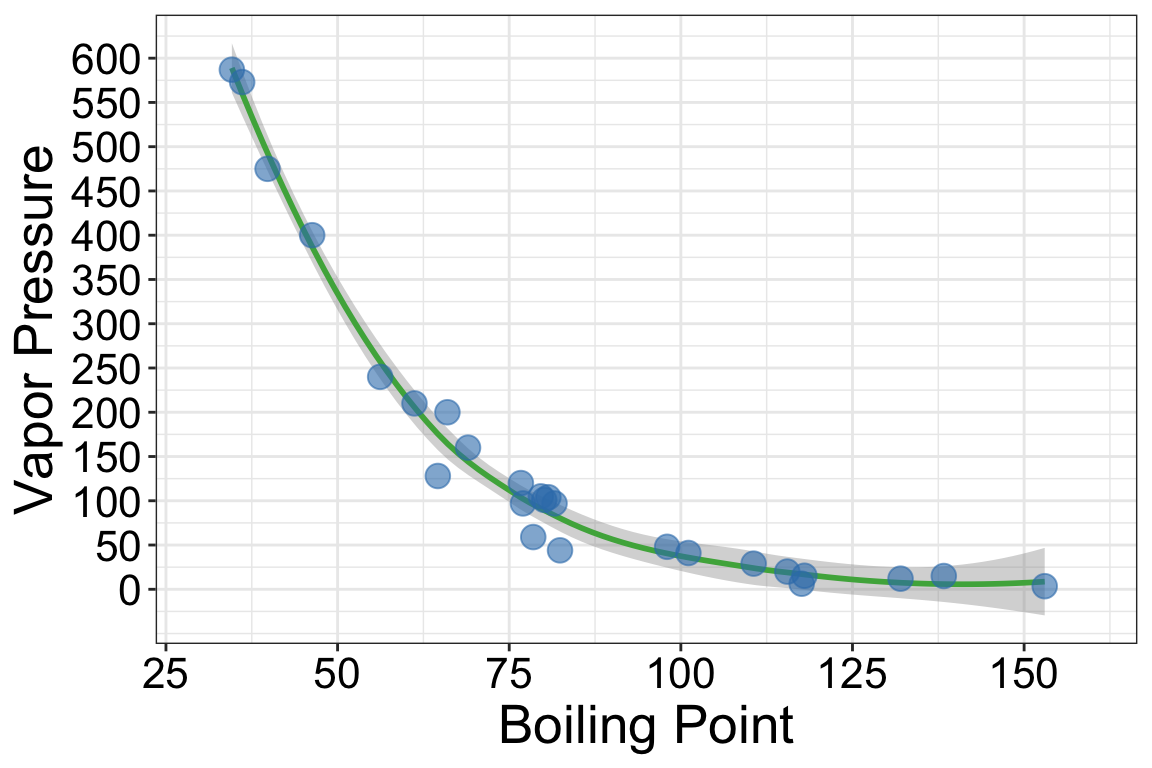
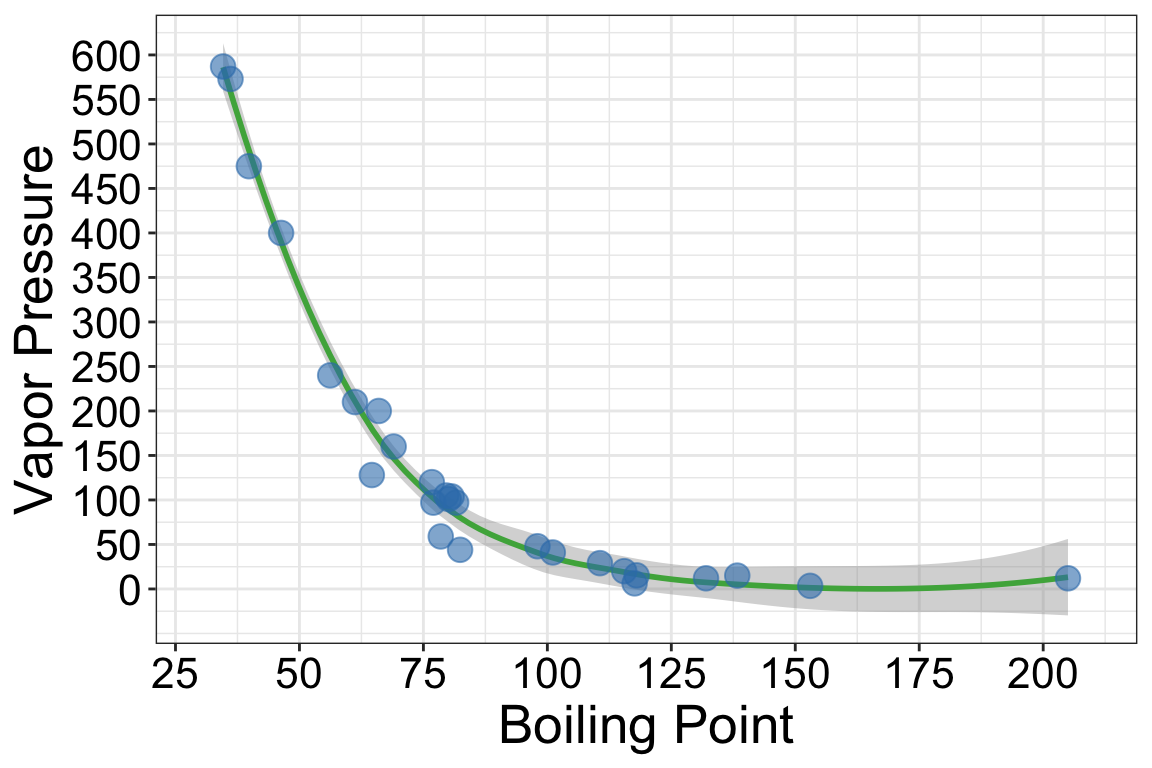
rfc updates

diff --git a/R_For_Chemists/docs/R-Basics-2.html b/R_For_Chemists/docs/R-Basics-2.html
@@ -331,7 +331,7 @@ code span.wa { color: #8f5902; font-weight: bold; font-style: italic; } /* Warni
 <p>Last, here is an example of combining <code>scale_*</code> and <code>theme*</code> with previous commands to really get a plot looking sharp.</p>
 <div class="sourceCode" id="cb34"><pre class="sourceCode r"><code class="sourceCode r"><a class="sourceLine" id="cb34-1" data-line-number="1"><span class="kw">ggplot</span>(<span class="dt">data =</span> solvents, <span class="kw">aes</span>(<span class="dt">x =</span> boiling_point, <span class="dt">y =</span> vapor_pressure)) <span class="op">+</span><span class="st"> </span></a>
 <a class="sourceLine" id="cb34-2" data-line-number="2"><span class="st">  </span><span class="kw">geom_smooth</span>(<span class="dt">color =</span> <span class="st">&quot;#4daf4a&quot;</span>) <span class="op">+</span></a>
-<a class="sourceLine" id="cb34-3" data-line-number="3"><span class="st">  </span><span class="kw">scale_x_continuous</span>(<span class="dt">name =</span> <span class="st">&quot;Boiling Point&quot;</span>, <span class="dt">breaks =</span> <span class="kw">seq</span>(<span class="dv">0</span>,<span class="dv">200</span>,<span class="dv">25</span>), <span class="dt">limits =</span> <span class="kw">c</span>(<span class="dv">30</span>,<span class="dv">160</span>)) <span class="op">+</span></a>
+<a class="sourceLine" id="cb34-3" data-line-number="3"><span class="st">  </span><span class="kw">scale_x_continuous</span>(<span class="dt">name =</span> <span class="st">&quot;Boiling Point&quot;</span>, <span class="dt">breaks =</span> <span class="kw">seq</span>(<span class="dv">0</span>,<span class="dv">200</span>,<span class="dv">25</span>), <span class="dt">limits =</span> <span class="kw">c</span>(<span class="dv">30</span>,<span class="dv">210</span>)) <span class="op">+</span></a>
 <a class="sourceLine" id="cb34-4" data-line-number="4"><span class="st">  </span><span class="kw">scale_y_continuous</span>(<span class="dt">name =</span> <span class="st">&quot;Vapor Pressure&quot;</span>, <span class="dt">breaks =</span> <span class="kw">seq</span>(<span class="dv">0</span>,<span class="dv">600</span>,<span class="dv">50</span>)) <span class="op">+</span></a>
 <a class="sourceLine" id="cb34-5" data-line-number="5"><span class="st">  </span><span class="kw">geom_point</span>(<span class="dt">color =</span> <span class="st">&quot;#377eb8&quot;</span>, <span class="dt">size =</span> <span class="dv">4</span>, <span class="dt">alpha =</span> <span class="fl">0.6</span>) <span class="op">+</span></a>
 <a class="sourceLine" id="cb34-6" data-line-number="6"><span class="st">  </span><span class="kw">theme_bw</span>() <span class="op">+</span></a>
